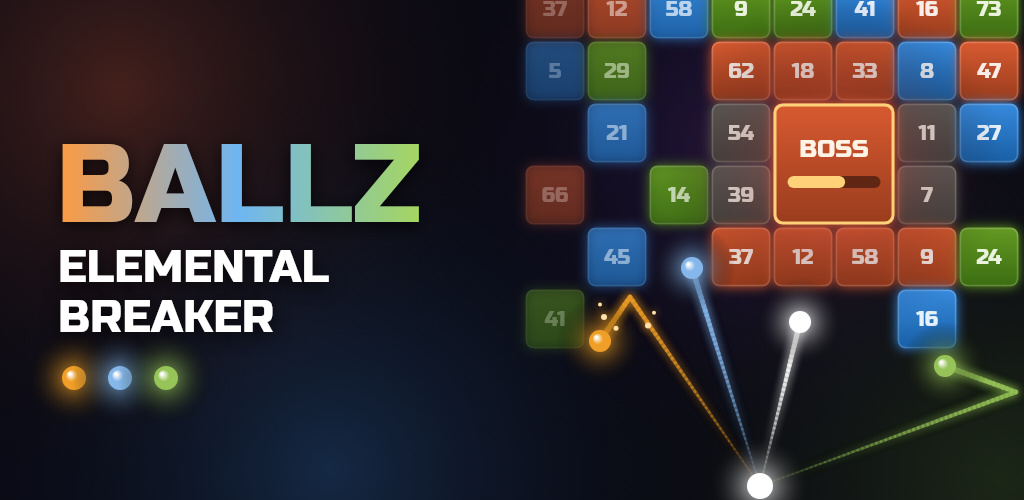
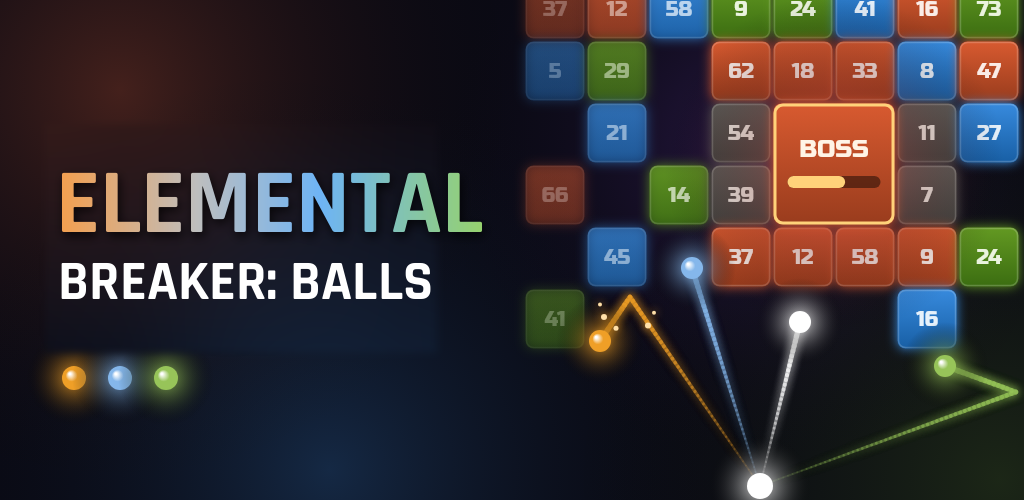
refactor: update app name and privacy policy references to "Elemental Breaker: Balls"

Changed region(s): [[0.0312, 0.27, 0.4688, 0.69]]

diff --git a/docs/terms.html b/docs/terms.html
@@ -1,0 +1,159 @@
+<!doctype html>
+<html lang="en"><head><meta charset="utf-8"><meta name="viewport" content="width=device-width, initial-scale=1">
+<title>Elemental Breaker: Balls: Terms of Service</title>
+<style>body{font-family:system-ui,sans-serif;max-width:720px;margin:0 auto;padding:24px 16px;line-height:1.6;color:#1a1a1a;background:#fff}h2{margin-top:2.5em;border-top:1px solid #ddd;padding-top:1.5em}h3{margin-bottom:.25em}p{white-space:pre-line;margin-top:.25em}nav a{margin-right:12px}</style></head><body>
+<h1>Elemental Breaker: Balls</h1>
+<nav><a href="#en">English</a><a href="#pt">Português</a><a href="#es">Español</a><a href="#fr">Français</a></nav>
+<section id="en" lang="en"><h2>Terms of Service</h2>
+<h3>Last updated: November 2026</h3>
+<p>These Terms apply to your use of the app &quot;Elemental Breaker: Balls&quot;, which is developed independently. By downloading or playing the app, you agree to these Terms. If you do not agree, please do not use the app.</p>
+<h3>1. Using the app</h3>
+<p>You may use the app for your personal, non-commercial entertainment. The app is not directed at children under 13.
+
+You agree not to copy, modify, resell or reverse engineer the app, and not to cheat or interfere with how it works, except where the law allows it.</p>
+<h3>2. Ads</h3>
+<p>The app is free to play and shows ads provided by Unity Ads, including banners, full-screen ads and optional videos that give in-game rewards. Ads are only activated after you accept them. How data is handled is explained in our Privacy Policy.</p>
+<h3>3. Remove Ads purchase</h3>
+<p>&quot;Remove Ads&quot; is an optional one-time purchase. It removes ads from the app, and rewards that normally require watching a video are offered without one. Those rewards keep their in-game limits.
+
+The purchase is linked to your Google account. If you reinstall the app or change devices, you can recover it in Settings using the same account.
+
+The price is shown on Google Play before you confirm.</p>
+<h3>4. Payments and refunds</h3>
+<p>Purchases are processed by Google Play and are subject to its terms and refund policies. We do not receive your payment details. Refund requests can be made through Google Play or by contacting us.</p>
+<h3>5. In-game items and progress</h3>
+<p>Gold, upgrades and other in-game items have no real-world value and cannot be exchanged for money. They may be rebalanced in updates.
+
+Your progress is stored on your device and, if you use cloud save, in your Google Play Games account. Uninstalling the app or clearing its data can erase progress that has not been saved to the cloud, and we cannot recover it.</p>
+<h3>6. Third-party services</h3>
+<p>The app uses services provided by others, including Google Play, Google Play Games and Unity Ads. Your use of them is governed by their own terms.</p>
+<h3>7. Intellectual property</h3>
+<p>The app and its content, including its code, graphics, sounds and name, belong to the developer or its licensors. These Terms do not transfer any of those rights to you.</p>
+<h3>8. Availability and changes</h3>
+<p>We may update, change or stop offering the app or any of its features, and there may be errors or interruptions. Some features require an internet connection.</p>
+<h3>9. Liability</h3>
+<p>The app is provided as it is. To the extent permitted by law, the developer is not liable for indirect damages or for loss of game progress.
+
+Nothing in these Terms limits the rights you have under the mandatory consumer protection laws of your country.</p>
+<h3>10. Changes to these Terms</h3>
+<p>We may update these Terms. The date at the top of this page shows the latest version. By continuing to use the app after a change, you accept the updated Terms.</p>
+<h3>11. Contact</h3>
+<p>If you have questions about these Terms, contact us:
+
+Email: j.a.brito@live.com</p>
+</section>
+<section id="pt" lang="pt"><h2>Termos de Serviço</h2>
+<h3>Última atualização: novembro de 2026</h3>
+<p>Estes Termos se aplicam ao uso do aplicativo &quot;Elemental Breaker: Balls&quot;, desenvolvido de forma independente. Ao baixar ou jogar o aplicativo, você concorda com estes Termos. Se não concordar, não use o aplicativo.</p>
+<h3>1. Uso do aplicativo</h3>
+<p>Você pode usar o aplicativo para seu entretenimento pessoal e não comercial. O aplicativo não é direcionado a crianças menores de 13 anos.
+
+Você concorda em não copiar, modificar, revender ou fazer engenharia reversa do aplicativo, nem trapacear ou interferir no seu funcionamento, exceto quando a lei permitir.</p>
+<h3>2. Anúncios</h3>
+<p>O aplicativo é gratuito e exibe anúncios fornecidos pelo Unity Ads, incluindo banners, anúncios em tela cheia e vídeos opcionais que dão recompensas no jogo. Os anúncios só são ativados depois que você os aceita. O tratamento de dados é explicado na nossa Política de Privacidade.</p>
+<h3>3. Compra para remover anúncios</h3>
+<p>&quot;Remover anúncios&quot; é uma compra única e opcional. Ela remove os anúncios do aplicativo, e as recompensas que normalmente exigem assistir a um vídeo são oferecidas sem ele. Essas recompensas mantêm os limites do jogo.
+
+A compra fica vinculada à sua conta Google. Se você reinstalar o aplicativo ou trocar de aparelho, pode recuperá-la em Configurações usando a mesma conta.
+
+O preço é exibido no Google Play antes da confirmação.</p>
+<h3>4. Pagamentos e reembolsos</h3>
+<p>As compras são processadas pelo Google Play e estão sujeitas aos termos e às políticas de reembolso dele. Não recebemos seus dados de pagamento. Pedidos de reembolso podem ser feitos pelo Google Play ou entrando em contato conosco.</p>
+<h3>5. Itens e progresso no jogo</h3>
+<p>Ouro, melhorias e outros itens do jogo não têm valor real e não podem ser trocados por dinheiro. Eles podem ser rebalanceados em atualizações.
+
+Seu progresso é armazenado no seu dispositivo e, se você usar o salvamento na nuvem, na sua conta do Google Play Games. Desinstalar o aplicativo ou limpar os dados dele pode apagar o progresso que não foi salvo na nuvem, e não conseguimos recuperá-lo.</p>
+<h3>6. Serviços de terceiros</h3>
+<p>O aplicativo usa serviços de terceiros, incluindo Google Play, Google Play Games e Unity Ads. O uso desses serviços é regido pelos termos de cada um.</p>
+<h3>7. Propriedade intelectual</h3>
+<p>O aplicativo e seu conteúdo, incluindo código, gráficos, sons e nome, pertencem ao desenvolvedor ou a seus licenciadores. Estes Termos não transferem nenhum desses direitos a você.</p>
+<h3>8. Disponibilidade e alterações</h3>
+<p>Podemos atualizar, alterar ou deixar de oferecer o aplicativo ou qualquer um de seus recursos, e podem ocorrer erros ou interrupções. Alguns recursos exigem conexão com a internet.</p>
+<h3>9. Responsabilidade</h3>
+<p>O aplicativo é fornecido no estado em que se encontra. Na medida permitida por lei, o desenvolvedor não se responsabiliza por danos indiretos nem pela perda de progresso no jogo.
+
+Nada nestes Termos limita os direitos garantidos a você pelas leis obrigatórias de proteção ao consumidor do seu país, incluindo o Código de Defesa do Consumidor no Brasil.</p>
+<h3>10. Alterações nestes Termos</h3>
+<p>Podemos atualizar estes Termos. A data no início desta página indica a versão mais recente. Ao continuar usando o aplicativo depois de uma alteração, você aceita os Termos atualizados.</p>
+<h3>11. Contato</h3>
+<p>Se você tiver dúvidas sobre estes Termos, entre em contato:
+
+E-mail: j.a.brito@live.com</p>
+</section>
+<section id="es" lang="es"><h2>Términos de servicio</h2>
+<h3>Última actualización: noviembre de 2026</h3>
+<p>Estos Términos se aplican al uso de la aplicación &quot;Elemental Breaker: Balls&quot;, desarrollada de forma independiente. Al descargar la aplicación o jugar con ella, aceptas estos Términos. Si no estás de acuerdo, no uses la aplicación.</p>
+<h3>1. Uso de la aplicación</h3>
+<p>Puedes usar la aplicación para tu entretenimiento personal y no comercial. La aplicación no está dirigida a menores de 13 años.
+
+Te comprometes a no copiar, modificar, revender ni aplicar ingeniería inversa a la aplicación, ni a hacer trampas o interferir en su funcionamiento, salvo cuando la ley lo permita.</p>
+<h3>2. Anuncios</h3>
+<p>La aplicación es gratuita y muestra anuncios proporcionados por Unity Ads, incluidos banners, anuncios a pantalla completa y vídeos opcionales que dan recompensas en el juego. Los anuncios solo se activan después de que los aceptes. El tratamiento de los datos se explica en nuestra Política de Privacidad.</p>
+<h3>3. Compra para eliminar anuncios</h3>
+<p>&quot;Eliminar anuncios&quot; es una compra única y opcional. Elimina los anuncios de la aplicación, y las recompensas que normalmente requieren ver un vídeo se ofrecen sin él. Esas recompensas mantienen los límites del juego.
+
+La compra queda vinculada a tu cuenta de Google. Si reinstalas la aplicación o cambias de dispositivo, puedes recuperarla en Ajustes con la misma cuenta.
+
+El precio se muestra en Google Play antes de confirmar.</p>
+<h3>4. Pagos y reembolsos</h3>
+<p>Las compras las procesa Google Play y están sujetas a sus términos y políticas de reembolso. No recibimos tus datos de pago. Puedes solicitar un reembolso a través de Google Play o contactándonos.</p>
+<h3>5. Objetos y progreso en el juego</h3>
+<p>El oro, las mejoras y otros objetos del juego no tienen valor real y no se pueden cambiar por dinero. Pueden reequilibrarse en las actualizaciones.
+
+Tu progreso se guarda en tu dispositivo y, si usas el guardado en la nube, en tu cuenta de Google Play Juegos. Desinstalar la aplicación o borrar sus datos puede eliminar el progreso que no se haya guardado en la nube, y no podemos recuperarlo.</p>
+<h3>6. Servicios de terceros</h3>
+<p>La aplicación usa servicios de terceros, como Google Play, Google Play Juegos y Unity Ads. Su uso se rige por los términos de cada uno.</p>
+<h3>7. Propiedad intelectual</h3>
+<p>La aplicación y su contenido, incluidos el código, los gráficos, los sonidos y el nombre, pertenecen al desarrollador o a sus licenciantes. Estos Términos no te transfieren ninguno de esos derechos.</p>
+<h3>8. Disponibilidad y cambios</h3>
+<p>Podemos actualizar, cambiar o dejar de ofrecer la aplicación o cualquiera de sus funciones, y pueden producirse errores o interrupciones. Algunas funciones requieren conexión a internet.</p>
+<h3>9. Responsabilidad</h3>
+<p>La aplicación se ofrece tal como está. En la medida en que lo permita la ley, el desarrollador no se hace responsable de los daños indirectos ni de la pérdida del progreso en el juego.
+
+Nada en estos Términos limita los derechos que te otorgan las leyes obligatorias de protección al consumidor de tu país.</p>
+<h3>10. Cambios en estos Términos</h3>
+<p>Podemos actualizar estos Términos. La fecha al inicio de esta página indica la versión más reciente. Si sigues usando la aplicación después de un cambio, aceptas los Términos actualizados.</p>
+<h3>11. Contacto</h3>
+<p>Si tienes preguntas sobre estos Términos, escríbenos:
+
+Correo: j.a.brito@live.com</p>
+</section>
+<section id="fr" lang="fr"><h2>Conditions d&#x27;utilisation</h2>
+<h3>Dernière mise à jour : novembre 2026</h3>
+<p>Ces conditions s&#x27;appliquent à votre utilisation de l&#x27;application « Elemental Breaker: Balls », développée de manière indépendante. En téléchargeant l&#x27;application ou en y jouant, vous acceptez ces conditions. Si vous ne les acceptez pas, veuillez ne pas utiliser l&#x27;application.</p>
+<h3>1. Utilisation de l&#x27;application</h3>
+<p>Vous pouvez utiliser l&#x27;application pour votre divertissement personnel et non commercial. L&#x27;application ne s&#x27;adresse pas aux enfants de moins de 13 ans.
+
+Vous vous engagez à ne pas copier, modifier, revendre ni désosser l&#x27;application, et à ne pas tricher ni perturber son fonctionnement, sauf si la loi l&#x27;autorise.</p>
+<h3>2. Annonces</h3>
+<p>L&#x27;application est gratuite et affiche des annonces fournies par Unity Ads, notamment des bannières, des annonces en plein écran et des vidéos facultatives qui donnent des récompenses dans le jeu. Les annonces ne sont activées qu&#x27;après votre acceptation. Le traitement des données est expliqué dans notre politique de confidentialité.</p>
+<h3>3. Achat pour supprimer les annonces</h3>
+<p>« Supprimer les annonces » est un achat unique et facultatif. Il supprime les annonces de l&#x27;application, et les récompenses qui nécessitent normalement de regarder une vidéo sont proposées sans vidéo. Ces récompenses conservent leurs limites dans le jeu.
+
+L&#x27;achat est lié à votre compte Google. Si vous réinstallez l&#x27;application ou changez d&#x27;appareil, vous pouvez le récupérer dans Paramètres avec le même compte.
+
+Le prix est indiqué sur Google Play avant la confirmation.</p>
+<h3>4. Paiements et remboursements</h3>
+<p>Les achats sont traités par Google Play et soumis à ses conditions et à ses règles de remboursement. Nous ne recevons pas vos données de paiement. Vous pouvez demander un remboursement via Google Play ou en nous contactant.</p>
+<h3>5. Objets et progression dans le jeu</h3>
+<p>L&#x27;or, les améliorations et les autres objets du jeu n&#x27;ont aucune valeur réelle et ne peuvent pas être échangés contre de l&#x27;argent. Ils peuvent être rééquilibrés lors des mises à jour.
+
+Votre progression est stockée sur votre appareil et, si vous utilisez la sauvegarde dans le cloud, dans votre compte Google Play Jeux. Désinstaller l&#x27;application ou effacer ses données peut supprimer la progression non sauvegardée dans le cloud, et nous ne pouvons pas la récupérer.</p>
+<h3>6. Services tiers</h3>
+<p>L&#x27;application utilise des services tiers, notamment Google Play, Google Play Jeux et Unity Ads. Leur utilisation est régie par leurs propres conditions.</p>
+<h3>7. Propriété intellectuelle</h3>
+<p>L&#x27;application et son contenu, y compris le code, les graphismes, les sons et le nom, appartiennent au développeur ou à ses concédants. Ces conditions ne vous transfèrent aucun de ces droits.</p>
+<h3>8. Disponibilité et modifications</h3>
+<p>Nous pouvons mettre à jour, modifier ou cesser de proposer l&#x27;application ou l&#x27;une de ses fonctionnalités, et des erreurs ou interruptions peuvent survenir. Certaines fonctionnalités nécessitent une connexion à internet.</p>
+<h3>9. Responsabilité</h3>
+<p>L&#x27;application est fournie en l&#x27;état. Dans les limites autorisées par la loi, le développeur n&#x27;est pas responsable des dommages indirects ni de la perte de progression dans le jeu.
+
+Rien dans ces conditions ne limite les droits que vous accordent les lois impératives de protection des consommateurs de votre pays.</p>
+<h3>10. Modifications de ces conditions</h3>
+<p>Nous pouvons mettre à jour ces conditions. La date en haut de cette page indique la version la plus récente. En continuant à utiliser l&#x27;application après une modification, vous acceptez les conditions mises à jour.</p>
+<h3>11. Contact</h3>
+<p>Pour toute question concernant ces conditions, contactez-nous :
+
+E-mail : j.a.brito@live.com</p>
+</section>
+</body></html>

diff --git a/lib/l10n/privacy_policy_text.dart b/lib/l10n/privacy_policy_text.dart
@@ -3,7 +3,7 @@ import '../models/app_settings.dart';
 /// Também é a fonte de docs/privacy-policy.html, a versão pública exigida pelo Google Play.
 const Map<AppLanguage, List<(String, String)>> privacyPolicyText = {
   AppLanguage.pt: [
-    ("Última atualização: novembro de 2026", "Este aplicativo (\"Ballz - Elemental Breaker\") é desenvolvido de forma independente. Esta Política de Privacidade explica como coletamos, usamos e protegemos suas informações ao usar nosso aplicativo."),
+    ("Última atualização: novembro de 2026", "Este aplicativo (\"Elemental Breaker: Balls\") é desenvolvido de forma independente. Esta Política de Privacidade explica como coletamos, usamos e protegemos suas informações ao usar nosso aplicativo."),
     ("1. Dados coletados", "Não coletamos diretamente nenhum dado pessoal identificável. No entanto, utilizamos serviços de terceiros que podem coletar informações para fins publicitários, incluindo:\n\n• Identificador de publicidade (Advertising ID)\n• Informações do dispositivo (modelo, sistema operacional)\n• Endereço IP\n• Dados de uso e interação com anúncios"),
     ("2. Publicidade (Unity Ads)", "Este aplicativo utiliza o Unity Ads (Unity Technologies) para exibir anúncios. O serviço só é ativado depois que você aceita os anúncios. O Unity Ads pode coletar e processar dados para personalizar anúncios conforme sua política de privacidade.\n\nPara mais informações sobre as práticas de privacidade do Unity Ads, acesse: unity.com/legal/privacy-policy"),
     ("3. Google Play Games e compras", "Ao abrir, o aplicativo tenta conectar você ao Google Play Games, serviço do Google regido pela política de privacidade do Google.\n\nSe você usar o salvamento na nuvem, seu progresso (pontuação, ouro, fases, bolas e melhorias) é guardado na sua conta do Google Play Games.\n\nAs compras são processadas pelo Google Play. Não recebemos seus dados de pagamento."),
@@ -14,7 +14,7 @@ const Map<AppLanguage, List<(String, String)>> privacyPolicyText = {
     ("8. Contato", "Se você tiver dúvidas sobre esta Política de Privacidade, entre em contato:\n\nE-mail: j.a.brito@live.com"),
   ],
   AppLanguage.en: [
-    ("Last updated: November 2026", "This app (\"Ballz - Elemental Breaker\") is developed independently. This Privacy Policy explains how we collect, use and protect your information when you use our app."),
+    ("Last updated: November 2026", "This app (\"Elemental Breaker: Balls\") is developed independently. This Privacy Policy explains how we collect, use and protect your information when you use our app."),
     ("1. Data collected", "We do not directly collect any personally identifiable data. However, we use third-party services that may collect information for advertising purposes, including:\n\n• Advertising ID\n• Device information (model, operating system)\n• IP address\n• Usage data and ad interactions"),
     ("2. Advertising (Unity Ads)", "This app uses Unity Ads (Unity Technologies) to show ads. The service is only activated after you accept ads. Unity Ads may collect and process data to personalize ads according to its privacy policy.\n\nFor more information about Unity Ads privacy practices, visit: unity.com/legal/privacy-policy"),
     ("3. Google Play Games and purchases", "When opened, the app tries to connect you to Google Play Games, a Google service governed by Google's privacy policy.\n\nIf you use cloud save, your progress (score, gold, stages, balls and upgrades) is stored in your Google Play Games account.\n\nPurchases are processed by Google Play. We do not receive your payment details."),
@@ -25,7 +25,7 @@ const Map<AppLanguage, List<(String, String)>> privacyPolicyText = {
     ("8. Contact", "If you have questions about this Privacy Policy, contact us:\n\nEmail: j.a.brito@live.com"),
   ],
   AppLanguage.es: [
-    ("Última actualización: noviembre de 2026", "Esta aplicación (\"Ballz - Elemental Breaker\") se desarrolla de forma independiente. Esta Política de Privacidad explica cómo recopilamos, usamos y protegemos tu información cuando usas nuestra aplicación."),
+    ("Última actualización: noviembre de 2026", "Esta aplicación (\"Elemental Breaker: Balls\") se desarrolla de forma independiente. Esta Política de Privacidad explica cómo recopilamos, usamos y protegemos tu información cuando usas nuestra aplicación."),
     ("1. Datos recopilados", "No recopilamos directamente ningún dato personal identificable. Sin embargo, utilizamos servicios de terceros que pueden recopilar información con fines publicitarios, entre ella:\n\n• Identificador de publicidad (Advertising ID)\n• Información del dispositivo (modelo, sistema operativo)\n• Dirección IP\n• Datos de uso e interacción con anuncios"),
     ("2. Publicidad (Unity Ads)", "Esta aplicación utiliza Unity Ads (Unity Technologies) para mostrar anuncios. El servicio solo se activa después de que aceptes los anuncios. Unity Ads puede recopilar y procesar datos para personalizar anuncios conforme a su política de privacidad.\n\nPara más información sobre las prácticas de privacidad de Unity Ads, visita: unity.com/legal/privacy-policy"),
     ("3. Google Play Juegos y compras", "Al abrirse, la aplicación intenta conectarte a Google Play Juegos, un servicio de Google regido por la política de privacidad de Google.\n\nSi usas el guardado en la nube, tu progreso (puntuación, oro, etapas, bolas y mejoras) se guarda en tu cuenta de Google Play Juegos.\n\nLas compras las procesa Google Play. No recibimos tus datos de pago."),
@@ -36,7 +36,7 @@ const Map<AppLanguage, List<(String, String)>> privacyPolicyText = {
     ("8. Contacto", "Si tienes preguntas sobre esta Política de Privacidad, escríbenos:\n\nCorreo: j.a.brito@live.com"),
   ],
   AppLanguage.fr: [
-    ("Dernière mise à jour : novembre 2026", "Cette application (« Ballz - Elemental Breaker ») est développée de manière indépendante. Cette politique de confidentialité explique comment nous collectons, utilisons et protégeons vos informations lorsque vous utilisez notre application."),
+    ("Dernière mise à jour : novembre 2026", "Cette application (« Elemental Breaker: Balls ») est développée de manière indépendante. Cette politique de confidentialité explique comment nous collectons, utilisons et protégeons vos informations lorsque vous utilisez notre application."),
     ("1. Données collectées", "Nous ne collectons directement aucune donnée personnelle identifiable. Cependant, nous utilisons des services tiers susceptibles de collecter des informations à des fins publicitaires, notamment :\n\n• Identifiant publicitaire (Advertising ID)\n• Informations sur l'appareil (modèle, système d'exploitation)\n• Adresse IP\n• Données d'utilisation et d'interaction avec les annonces"),
     ("2. Publicité (Unity Ads)", "Cette application utilise Unity Ads (Unity Technologies) pour afficher des annonces. Le service n'est activé qu'après votre acceptation des annonces. Unity Ads peut collecter et traiter des données pour personnaliser les annonces conformément à sa politique de confidentialité.\n\nPour en savoir plus sur les pratiques de confidentialité d'Unity Ads : unity.com/legal/privacy-policy"),
     ("3. Google Play Jeux et achats", "À l'ouverture, l'application tente de vous connecter à Google Play Jeux, un service de Google régi par les règles de confidentialité de Google.\n\nSi vous utilisez la sauvegarde dans le cloud, votre progression (score, or, niveaux, balles et améliorations) est conservée dans votre compte Google Play Jeux.\n\nLes achats sont traités par Google Play. Nous ne recevons pas vos données de paiement."),

diff --git a/docs/privacy-policy.html b/docs/privacy-policy.html
@@ -1,12 +1,12 @@
 <!doctype html>
 <html lang="en"><head><meta charset="utf-8"><meta name="viewport" content="width=device-width, initial-scale=1">
-<title>Ballz - Elemental Breaker: Privacy Policy</title>
+<title>Elemental Breaker: Balls: Privacy Policy</title>
 <style>body{font-family:system-ui,sans-serif;max-width:720px;margin:0 auto;padding:24px 16px;line-height:1.6;color:#1a1a1a;background:#fff}h2{margin-top:2.5em;border-top:1px solid #ddd;padding-top:1.5em}h3{margin-bottom:.25em}p{white-space:pre-line;margin-top:.25em}nav a{margin-right:12px}</style></head><body>
-<h1>Ballz - Elemental Breaker</h1>
+<h1>Elemental Breaker: Balls</h1>
 <nav><a href="#en">English</a><a href="#pt">Português</a><a href="#es">Español</a><a href="#fr">Français</a></nav>
 <section id="en" lang="en"><h2>Privacy Policy</h2>
 <h3>Last updated: November 2026</h3>
-<p>This app (&quot;Ballz - Elemental Breaker&quot;) is developed independently. This Privacy Policy explains how we collect, use and protect your information when you use our app.</p>
+<p>This app (&quot;Elemental Breaker: Balls&quot;) is developed independently. This Privacy Policy explains how we collect, use and protect your information when you use our app.</p>
 <h3>1. Data collected</h3>
 <p>We do not directly collect any personally identifiable data. However, we use third-party services that may collect information for advertising purposes, including:
 
@@ -49,7 +49,7 @@ Email: j.a.brito@live.com</p>
 </section>
 <section id="pt" lang="pt"><h2>Política de Privacidade</h2>
 <h3>Última atualização: novembro de 2026</h3>
-<p>Este aplicativo (&quot;Ballz - Elemental Breaker&quot;) é desenvolvido de forma independente. Esta Política de Privacidade explica como coletamos, usamos e protegemos suas informações ao usar nosso aplicativo.</p>
+<p>Este aplicativo (&quot;Elemental Breaker: Balls&quot;) é desenvolvido de forma independente. Esta Política de Privacidade explica como coletamos, usamos e protegemos suas informações ao usar nosso aplicativo.</p>
 <h3>1. Dados coletados</h3>
 <p>Não coletamos diretamente nenhum dado pessoal identificável. No entanto, utilizamos serviços de terceiros que podem coletar informações para fins publicitários, incluindo:
 
@@ -92,7 +92,7 @@ E-mail: j.a.brito@live.com</p>
 </section>
 <section id="es" lang="es"><h2>Política de privacidad</h2>
 <h3>Última actualización: noviembre de 2026</h3>
-<p>Esta aplicación (&quot;Ballz - Elemental Breaker&quot;) se desarrolla de forma independiente. Esta Política de Privacidad explica cómo recopilamos, usamos y protegemos tu información cuando usas nuestra aplicación.</p>
+<p>Esta aplicación (&quot;Elemental Breaker: Balls&quot;) se desarrolla de forma independiente. Esta Política de Privacidad explica cómo recopilamos, usamos y protegemos tu información cuando usas nuestra aplicación.</p>
 <h3>1. Datos recopilados</h3>
 <p>No recopilamos directamente ningún dato personal identificable. Sin embargo, utilizamos servicios de terceros que pueden recopilar información con fines publicitarios, entre ella:
 
@@ -135,7 +135,7 @@ Correo: j.a.brito@live.com</p>
 </section>
 <section id="fr" lang="fr"><h2>Politique de confidentialité</h2>
 <h3>Dernière mise à jour : novembre 2026</h3>
-<p>Cette application (« Ballz - Elemental Breaker ») est développée de manière indépendante. Cette politique de confidentialité explique comment nous collectons, utilisons et protégeons vos informations lorsque vous utilisez notre application.</p>
+<p>Cette application (« Elemental Breaker: Balls ») est développée de manière indépendante. Cette politique de confidentialité explique comment nous collectons, utilisons et protégeons vos informations lorsque vous utilisez notre application.</p>
 <h3>1. Données collectées</h3>
 <p>Nous ne collectons directement aucune donnée personnelle identifiable. Cependant, nous utilisons des services tiers susceptibles de collecter des informations à des fins publicitaires, notamment :
 

diff --git a/lib/main.dart b/lib/main.dart
@@ -51,7 +51,7 @@ class BallzApp extends StatelessWidget {
         ChangeNotifierProvider.value(value: GamesCloudService.instance),
       ],
       child: MaterialApp(
-        title: 'Ballz - Elemental Breaker',
+        title: 'Elemental Breaker: Balls',
         debugShowCheckedModeBanner: false,
         theme: ThemeData.dark().copyWith(
           scaffoldBackgroundColor: const Color(0xFF0a0a14),

diff --git a/store_listing/listing.md b/store_listing/listing.md
@@ -1,6 +1,6 @@
 # Ficha da Play Store
 
-Nome do app (máx. 30): Ballz - Elemental Breaker
+Nome do app (máx. 30): Elemental Breaker: Balls
 
 ## Português (pt-BR)
 
